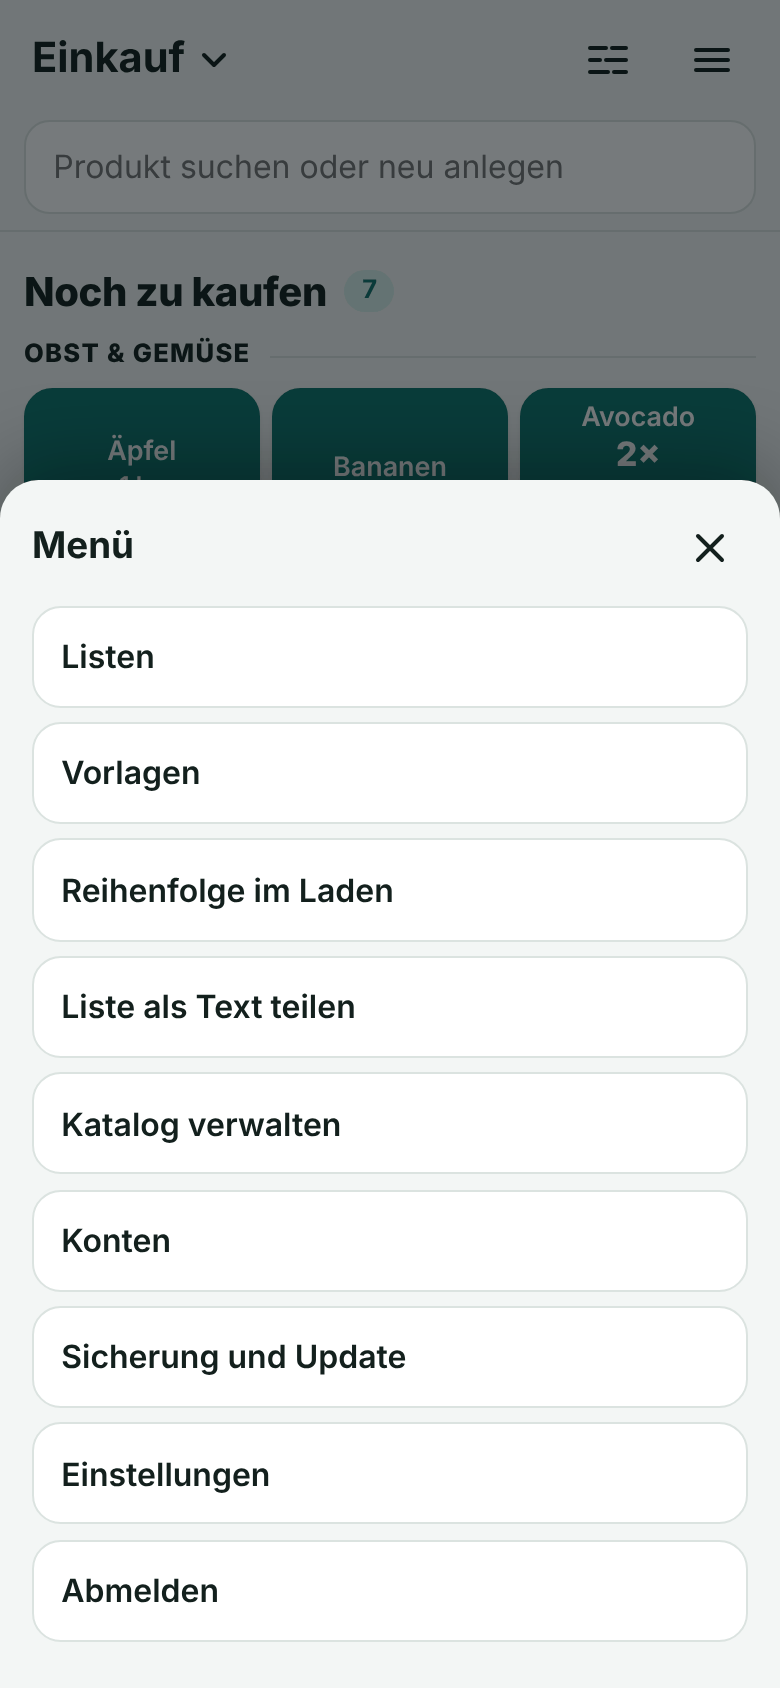
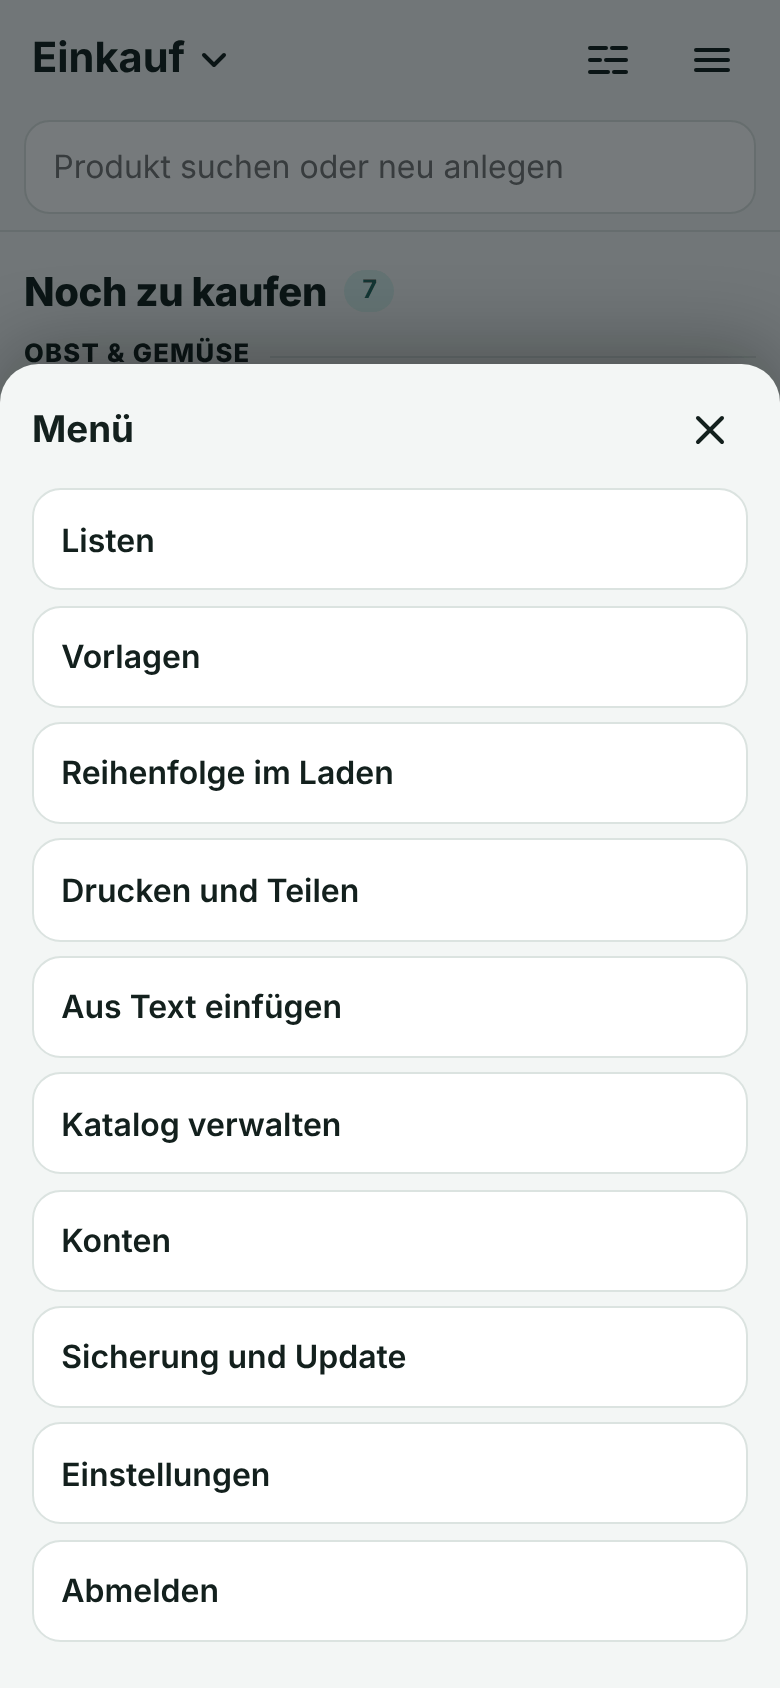
Screenshots für Drucken und Teilen, Aus Text einfügen und den PDF-Zettel
- Neues Menü auf den Screenshots (de/en)
- Neue Zeile im README: Drucken und Teilen, Aus Text einfügen, der Zettel
- Vorschau beim Einfügen zeigt die Warengruppe auch neben der Menge

Claude-Session: https://claude.ai/code/session_01GvUq7H4usPZ7W1kVx3sCCL

diff --git a/app/assets/app.js b/app/assets/app.js
@@ -2094,7 +2094,7 @@ function showImport() {
         fill(prev, m.length ? [
             h('h2', null, tr('Erkannt'), h('small', null, String(m.length))),
             m.map(x => h('div', { class: 'row plain' + (isNew(x) ? '' : ' off') }, h('span', { class: 'grow' }, dn(x.n),
-                h('small', null, [paperNote(x.note), extra(x)].filter(Boolean).join(' · ') || catName(x.c))))),
+                h('small', null, [paperNote(x.note), extra(x) || catName(x.c)].filter(Boolean).join(' · '))))),
         ] : box.value.trim() ? h('p', { class: 'info' }, tr('Darin ist nichts, was nach einem Produkt aussieht.')) : null);
     }
     put(sh.body,

diff --git a/README.md b/README.md
@@ -36,9 +36,14 @@ Produkte tippt man aus einem fertigen Katalog an, sortiert nach Warengruppen. Im
     <td align="center"><img src="docs/de/menue.png" alt="Das Menü" width="250"><br><sub>Menü</sub></td>
     <td align="center"><img src="docs/de/sicherung.png" alt="Sicherung und Update für den Administrator" width="250"><br><sub>Sicherung und Update</sub></td>
   </tr>
+  <tr>
+    <td align="center"><img src="docs/de/drucken.png" alt="Drucken und Teilen: Einkaufszettel als PDF, Liste als Text" width="250"><br><sub>Drucken und Teilen</sub></td>
+    <td align="center"><img src="docs/de/einfuegen.png" alt="Aus Text einfügen, mit Vorschau, was erkannt wurde" width="250"><br><sub>Aus Text einfügen</sub></td>
+    <td align="center"><img src="docs/de/zettel.png" alt="Der Einkaufszettel als PDF: zwei Spalten, Kästchen zum Abhaken" width="250"><br><sub>Der Zettel zum Ausdrucken</sub></td>
+  </tr>
 </table>
 
-<sub>Screenshots von Version 1.11.1. Namen und Einträge sind erfunden.</sub>
+<sub>Screenshots von Version 1.11.1 und 1.13.0. Namen und Einträge sind erfunden.</sub>
 
 > 💜 **Gefällt dir Kaufen?** Ein ⭐ auf GitHub ist die einfachste Art, mir das zu sagen, und es bringt mehr, als man denkt: Sterne sind der sichtbare Beweis, dass ein Projekt gute Arbeit leistet, und genau darüber finden andere kleine Projekte wie dieses überhaupt erst Leute. Oder [erzähl mir, wofür du es nutzt](https://github.com/burnersen/kaufen/issues/new), ich lese jede Nachricht. Danke, dass du da bist!
 

diff --git a/README.en.md b/README.en.md
@@ -36,9 +36,14 @@ Upload `kaufen-install.php`, open it in the browser, create the first account. T
     <td align="center"><img src="docs/en/menu.png" alt="The menu" width="250"><br><sub>Menu</sub></td>
     <td align="center"><img src="docs/en/backup.png" alt="Backup and update for the administrator" width="250"><br><sub>Backup and update</sub></td>
   </tr>
+  <tr>
+    <td align="center"><img src="docs/en/print.png" alt="Print and share: shopping list as PDF, list as text" width="250"><br><sub>Print and share</sub></td>
+    <td align="center"><img src="docs/en/paste.png" alt="Paste from text, with a preview of what was recognized" width="250"><br><sub>Paste from text</sub></td>
+    <td align="center"><img src="docs/en/shopping-list.png" alt="The shopping list as PDF: two columns, boxes to tick off" width="250"><br><sub>The PDF to print</sub></td>
+  </tr>
 </table>
 
-<sub>Screenshots of version 1.11.1. Names and entries are made up.</sub>
+<sub>Screenshots of versions 1.11.1 and 1.13.0. Names and entries are made up.</sub>
 
 > 💜 **Using Kaufen and happy with it?** A ⭐ on GitHub is the easiest way to let me know, and it does more than you'd think: stars are the visible proof that a project does good work, and they are how small projects like this one get found by other people in the first place. Or [tell me what you use it for](https://github.com/burnersen/kaufen/issues/new), I read every message. Thanks for being here!
 
